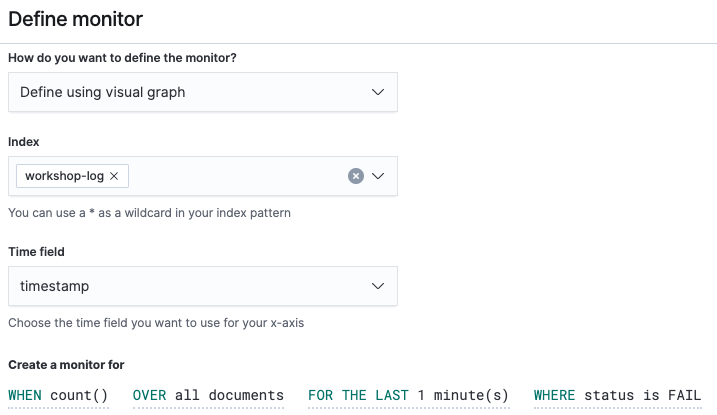
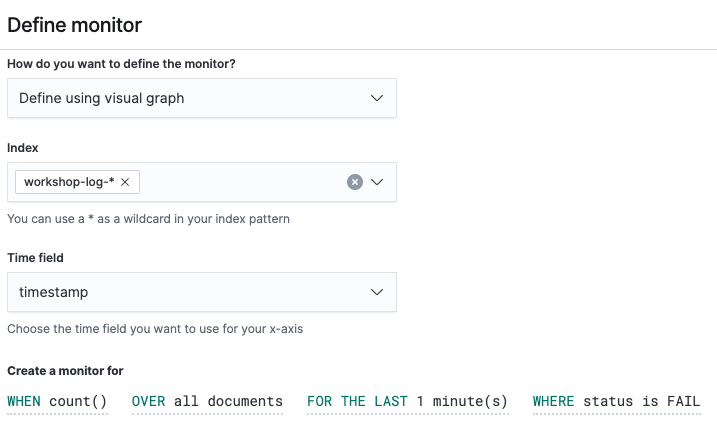
add index management section in lab 3

diff --git a/jp/lab2/README.md b/jp/lab2/README.md
@@ -36,7 +36,7 @@ Elasticsearch では，index と呼ばれる単位でデータを管理し，そ
 それでは早速，Lab 1 で作成した index を読み取るための index pattern を作成していきましょう．
 
 1. 画面左側メニューの![kibana_management](../images/kibana_management.png)アイコンをクリックして，Management 画面を開き，左側の **[Index Patterns]** を選択します．続いて **[Create index patterns]** ボタンを押して，index pattern の作成画面を開いてください
-2. **"Step 1 of 2: Define index pattern"** の **"index pattern"** に "workshop-log" と入力して，**[ > Next step]** ボタンをクリックします．ここでは使用しませんが，このパターンにはワイルドカード（*）を用いて，複数の index を含めたデータセットを作ることもできます．例えば "workshop-log"，"workshop-user"，"workshop-item" といった複数の index がある場合，"workshop-\*" というパターンを指定することで，これらすべての index を検索対象にすることができます
+2. **"Step 1 of 2: Define index pattern"** の **"index pattern"** に **"workshop-log-\*"** と入力して，**[ > Next step]** ボタンをクリックします．ここで最後につけてある \* はワイルドカードと呼ばれるもので，複数の index をマッチさせるために使用できます．今回は 1 時間ごとにログがローテーションする設定にしていますので，"workshop-log-2020-04-01-09"，"workshop-log-2020-04-01-10"，"workshop-log-2020-04-01-11" と異なる名前の index が 1 時間ごとに生成されていきます．ワイルドカードを用いることで，この index pattern では，これらすべてを検索対象に含めるすることができます 
 3. **"Step 2 of 2: Configure settings"** で **"Time Filter field name"** のプルダウンメニューから **[timestamp]** を選択します．Kibana では，ストリームで流れてくるデータを時系列で並べて可視化するのが，非常に一般的なユースケースです．その際の時系列で集約するためのキーを，ここで指定しています．Lab 1 の Kinesis Data Generator で指定したログフォーマットに含まれている "timestamp" というフィールドが，Elasticsearch に自動で日付型データとして認識されています
 4. **[Create index pattern]** ボタンを押して，新しい index pattern を作成します
 
@@ -55,7 +55,7 @@ Elasticsearch では，index と呼ばれる単位でデータを管理し，そ
 ### Discover によるデータの可視化
 
 1. 画面左側メニューの![kibana_discover](../images/kibana_discover.png)アイコンをクリックして，Discover のページを開きます
-2. 画面左上にある Index pattern 選択のプルダウンメニューから，**[workshop-log]** を選びますそうすると棒グラフが表示され，その下に Document がズラッと並ぶのが確認できるかと思います．．また画面右上にある，検索対象時間を指定するメニューのカレンダーボタンをクリックして，**"Commonly used"** にある **[Today]** をクリックしてください．今日のログをすべて表示してくれます．ここの値をいじることで，表示・検索範囲を変更できます
+2. 画面左上にある Index pattern 選択のプルダウンメニューから，**[workshop-log-*]** を選びますそうすると棒グラフが表示され，その下に Document がズラッと並ぶのが確認できるかと思います．．また画面右上にある，検索対象時間を指定するメニューのカレンダーボタンをクリックして，**"Commonly used"** にある **[Today]** をクリックしてください．今日のログをすべて表示してくれます．ここの値をいじることで，表示・検索範囲を変更できます
 3. Document の中身をみてみると，Lab 1 で指定したテンプレートと同じ sensorId, currentTemperature, Ipaddress. starus, timestamp といったフィールドが，こちらにも表示されているのが見て取れるでしょう． さらに _id, _type, _index, _score といった指定していないフィールドもありますが，こちらは Elasticsearch が自動で追加するメタデータになります
    ![discover_document](../images/discover_document.png)
 4. 続いて，画面左上の検索フィールドに，`status:WARN` と入力して，右側の **[Update]** ボタンを押してください．ここで入力した内容がフィルター条件として機能することで，画面に表示される Document が WARN ステータスのものだけになり，かつ FAIL にハイライトがかかって表示されます．また同様に，`status:FAIL|WARN` と入力することで，FAIL または WARN の Document が表示されます
@@ -72,7 +72,7 @@ Elasticsearch では，index と呼ばれる単位でデータを管理し，そ
 
 ここではまず，全レコードに占める OK, WARN, FAIL の各ステータスの割合を可視化するために，円グラフを作成してみます．
 
-1. 画面左側メニューの ![kibana_visualize](../images/kibana_visualize.png) アイコンをクリックして，Visualize のページを開きます．続いて **[ + Create a visualization]** ボタンを押して，グラフ作成画面に進みます．ポップアップから **[Pie]** を選択してください．続いてデータソースの選択画面に移るので，**[workshop-log]** を選ぶことで，グラフ作成画面が開きます
+1. 画面左側メニューの ![kibana_visualize](../images/kibana_visualize.png) アイコンをクリックして，Visualize のページを開きます．続いて **[ + Create a visualization]** ボタンを押して，グラフ作成画面に進みます．ポップアップから **[Pie]** を選択してください．続いてデータソースの選択画面に移るので，**[workshop-log-*]** を選ぶことで，グラフ作成画面が開きます
 2. 画面左のメニューで，**"Metrics"** を確認します．ここで **[Y-Axis]** に **"Count"** と表示されているのが見て取れるでしょう．これは，グラフの集計対象がレコード数ということを表しています．**[Y-Axis]** をクリックして詳細メニューを表示することで集計対象を変えることができます．ここではレコード数が対象のままで良いため，何もする必要はありません
 3. 続いて **"Buckets"** に進みます．ここで 2 つのメニューがありますが，ここでは **[Split Series]** を選択します．これは一つのグラフの中に，集計軸を追加するものです．なお **[Split Chart]** を選択した場合は，選択したメトリクスのカテゴリ数分だけグラフが作成されます
 4. ここではステータスを集計軸に加えたいので，その手順をみていきます．**"Aggregation"** で **[Terms]** を選択します．ステータスのようなカテゴリ型のフィールドの場合，通常この Terms を使用して軸の追加を行います．その上で **"Field"** で **[status.keyword]** を追加します
@@ -120,7 +120,7 @@ GET /workgroup-log/_search
 
 今度は時系列グラフを作成してみたいと思います．センサーの温度で複数グループに分割して，それぞれの異常ステータス数を可視化してみましょう．
 
-1. 画面左側メニューの ![kibana_visualize](../images/kibana_visualize.png) アイコンをクリックして，Visualize のページを開きます．続いて画面右上側の **[ + ]** ボタンを押して，グラフ作成画面に進みます．ポップアップから **[Area]** を選択してください．続いてデータソースの選択画面に移るので，**[workshop-log]** を選ぶことで，グラフ作成画面が開きます
+1. 画面左側メニューの ![kibana_visualize](../images/kibana_visualize.png) アイコンをクリックして，Visualize のページを開きます．続いて画面右上側の **[ + ]** ボタンを押して，グラフ作成画面に進みます．ポップアップから **[Area]** を選択してください．続いてデータソースの選択画面に移るので，**[workshop-log-*]** を選ぶことで，グラフ作成画面が開きます
 2. 画面左上の **"Filters"** に `status:WARN|FAIL` と入力します．次にその右の時間範囲を指定するフィールドの左側をクリックして，**[Relative]** タブを押して，**[1]** **[Hours ago]** と選択します．これにより画面に表示させる時間帯を変更することができます．変更を反映するために，画面右側の **[Update]** を押してください．これでステータスが正常でないレコードに絞った集計を行うことができます
 3. 次に **"Bucket"** で **[X-Axis]** を選択し，**"Aggregation"** から **[Date Histogram]** を選びます．これにより X 軸，つまり横軸に時系列の情報が追加されます．左側メニュー上にある **[▷]** ボタンを押すことで，変更が反映され，以下のようなグラフが表示されるかと思います
    ![visualize_areachart_simple](../images/visualize_areachart_simple.png)
@@ -133,7 +133,7 @@ GET /workgroup-log/_search
 
 同様に，ダッシュボードで定常的に確認するためのグラフをいくつか作成しておきましょう．まずIP レンジを Private IP 帯とそれ以外に分けて，それぞれのセンサーから得られる温度について，平均値の時系列変化を確認できるようにしましょう．
 
-1. 画面左側メニューの ![kibana_visualize](../images/kibana_visualize.png) アイコンをクリックして，Visualize のページを開きます．続いて画面右上側の **[ + ]** ボタンを押して，グラフ作成画面に進みます．ポップアップから **[Line]** を選択してください．続いてデータソースの選択画面に移るので，**[workshop-log]** を選ぶことで，グラフ作成画面が開きます
+1. 画面左側メニューの ![kibana_visualize](../images/kibana_visualize.png) アイコンをクリックして，Visualize のページを開きます．続いて画面右上側の **[ + ]** ボタンを押して，グラフ作成画面に進みます．ポップアップから **[Line]** を選択してください．続いてデータソースの選択画面に移るので，**[workshop-log-*]** を選ぶことで，グラフ作成画面が開きます
 2. **"Metrics"** の **[Y-Axis]** を押して詳細を開き，**"Aggregation"** から **[Average]** を選択します．続いてその下の **"Field"** で **[currentTemperature]** を選んでください
 3. 次に **"Buckets"** から **"X-Axis"** を選択して，**"Aggregation"** から **[Date Histogram]** を選びます．これにより X 軸に時系列の情報が追加されます
 4. 左側メニュー下にある **[Add sub-buckets]** ボタンを押して，追加の軸を設定します．**[Split Series]** を選択して，**"Sub Aggregation"** から **[Filters]** を選択します．ここではプライベート IP レンジとして，一般的に使われている 10.0.0.0-10.255.255.255 および 192.168.0.0-192.168.255.255 を用いているとして，**"Flter 1"** に`ipaddress:10.* or ipaddress:192.168.* `  と入力し，入力欄右上のタグのようなボタンをクリックします．そうすると **"Filter 1 label"** が表示されるので，**"Private IP"** と入力します．同様に [Add Filter] を押して，**"Flter 2"** に`* `  と入力します．左側メニュー上にある **[▷]** ボタンを押すことで，以下のように変更が反映されます

diff --git a/jp/lab1/README.md b/jp/lab1/README.md
@@ -45,9 +45,10 @@
 4. **"Step 2: Process records"** は特に何も変更せず，**[Next]** を押してください
 5. **"Step 3: Choose a destination"** で，**"Destionation"** として **[Amazon Elasticsearch Service]** を選択します．次に **"Amazon Elasticsearch Service destination"** の **"Domain"** で，先ほど作成した **[workshop-esdomain]** を選択してください．これで，先ほどの Amazon ES に対して自動でログを挿入することができるようになります．Domain が Processing のステータスの場合は，選択可能になるまで待ってください
 6. 次に **"Index"** で **"workshop-log"** と入力してください．Amazon ES の Index は，DB でいうところのテーブルに相当するものですが，この Firehose ストリームから送られたログは workshop-log という index に挿入されることになります．挿入時に Amazon ES 側に Index が存在しない場合には，自動で Index が作成されます
-7. その下の **"S3 backup"** で，**"Back up S3 bucket"** の右側 **[Create new]** ボタンを押して，S3 バケットの作成画面に進みます．**"S3 bucket name"** に，**"workshop-firehose-backup-YYYYMMDD-YOURNAME"** と入力します（YYYYMMDD は 20200701 のように，今日の日付と置き換えてください．また YOURNAME は taroyamada のようにご自身の名前と置き換えてください．この場合バケット名は "workshop-firehose-backup-20200701-taroyamada" となります）．このバケットは， Firehose から Amazon ES に挿入する際にエラーになったレコードを，バックアップとして格納するためのものです
-8. **"Step 4: Configure settings"** で，一番下の "Permission" において **[Cteate new or choose]** ボタンを押します．**"IAM ロール"** で **[新しい IAM ロールの作成]** を選択して，**"ロール名"** に **"workshop_firehose_delivery_role"** と入力して **[許可]** ボタンを押します．下の画面に戻ったら **[Next]** を押します
-9. **"Step 5: Review"** で，これまでの設定内容を眺めて，特に問題がなければ画面右下の **[Create delivery stream]** を押してドメインを作成してください．ストリームの作成には数分程度かかります
+7. また **"Index rotation"** でプルダウンから **[Every hour]** を選択してください．この設定を行うことで，新しい index が 1 時間ごとに作成されます．index 名も "workshop-log-2020-04-01-09" のように，後ろに日時をつけた形で作成されます．これにより，ストリームで流れてくるデータを一定の日時ごとに区切って取り扱うことができるようになります（この形をとる意味については，Lab 3 で詳しく説明します）
+8. その下の **"S3 backup"** で，**"Back up S3 bucket"** の右側 **[Create new]** ボタンを押して，S3 バケットの作成画面に進みます．**"S3 bucket name"** に，**"workshop-firehose-backup-YYYYMMDD-YOURNAME"** と入力します（YYYYMMDD は 20200701 のように，今日の日付と置き換えてください．また YOURNAME は taroyamada のようにご自身の名前と置き換えてください．この場合バケット名は "workshop-firehose-backup-20200701-taroyamada" となります）．このバケットは， Firehose から Amazon ES に挿入する際にエラーになったレコードを，バックアップとして格納するためのものです
+9. **"Step 4: Configure settings"** で，一番下の "Permission" において **[Cteate new or choose]** ボタンを押します．**"IAM ロール"** で **[新しい IAM ロールの作成]** を選択して，**"ロール名"** に **"workshop_firehose_delivery_role"** と入力して **[許可]** ボタンを押します．下の画面に戻ったら **[Next]** を押します
+10. **"Step 5: Review"** で，これまでの設定内容を眺めて，特に問題がなければ画面右下の **[Create delivery stream]** を押してドメインを作成してください．ストリームの作成には数分程度かかります
 
 ### 解説
 
